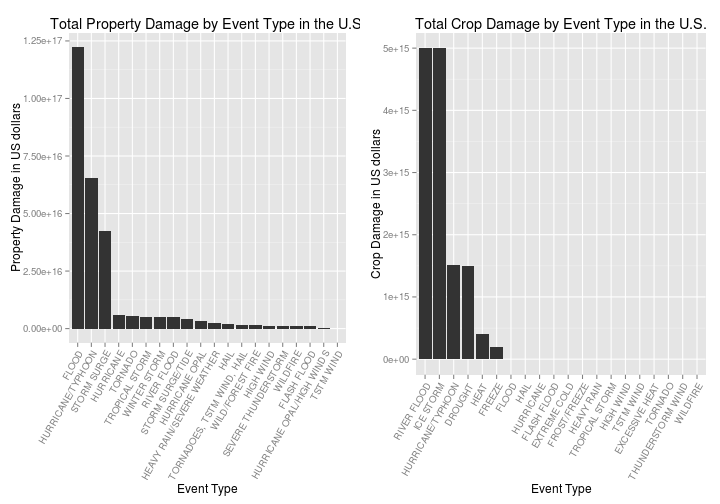
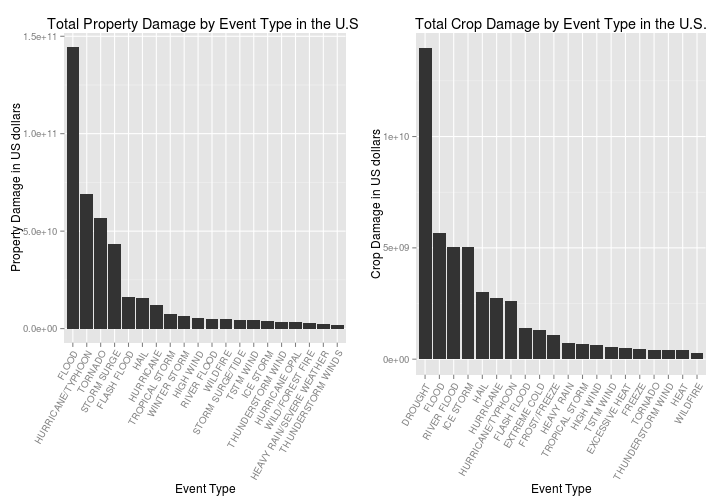
Correct the scaling.

diff --git a/index.html b/index.html
@@ -183,7 +183,7 @@ hljs.initHighlightingOnLoad();
 
 <h2>Synopsis</h2>
 
-<p>In this report, we will analyze the impact of different weather events on <em>population health</em> and its <em>economic consequences</em> with the data collected from 1950 till 2011 in the U.S. National Oceanic and Atmospheric Administration&#39;s (NOAA) storm database. To decide which type of event is most harmful to the population health, we will use the estimates of fatalities and injuries, as the histogram shows in the end, <strong>tornado</strong> causes the largest number of fatalities and injuries. For the impact on economy, the estimates of property and crop damage will be used, and the results show that <strong>flood</strong>, <strong>hurricane/typhoon</strong>, <strong>storm surge</strong>, <strong>river flood</strong> and <strong>ice storm</strong> have the greatest economic consequences.</p>
+<p>In this report, we will analyze the impact of different weather events on <em>population health</em> and its <em>economic consequences</em> with the data collected from 1950 till 2011 in the U.S. National Oceanic and Atmospheric Administration&#39;s (NOAA) storm database. To decide which type of event is most harmful to the population health, we will use the estimates of fatalities and injuries, as the histogram shows in the end, <strong>tornado</strong> causes the largest number of fatalities and injuries. For the impact on economy, the estimates of property and crop damage will be used, and the results show that <strong>flood</strong> and <strong>drought</strong> have the greatest economic consequences.</p>
 
 <h2>Introduction</h2>
 
@@ -274,7 +274,7 @@ injuries &lt;- within(injuries, EVTYPE &lt;- factor(x = EVTYPE, levels = injurie
 
 <h3>Economic Consequences</h3>
 
-<p>We will use the <strong>property damage</strong> and <strong>crop damage</strong> to estimate the impact of different types of weather events on economy. The selection strategy is the same as the previous section. As explained in the section 2.7 of <a href="https://d396qusza40orc.cloudfront.net/repdata%2Fpeer2_doc%2Fpd01016005curr.pdf">Storm Data Documentation</a>, we will need to restore the data from the orginal data file with the information in <code>PROPDMGEXP</code> and <code>CROPDMGEXP</code> and we will clean the data with other symboles in the same section.</p>
+<p>We will use the <strong>property damage</strong> and <strong>crop damage</strong> to estimate the impact of different types of weather events on economy. As explained in the section 2.7 of <a href="https://d396qusza40orc.cloudfront.net/repdata%2Fpeer2_doc%2Fpd01016005curr.pdf">Storm Data Documentation</a>, we will need to restore the data from the orginal data file with the information in <code>PROPDMGEXP</code> and <code>CROPDMGEXP</code> and we will keep the data with other symboles without scaling.</p>
 
 <ul>
 <li>K or k for thousands </li>
@@ -284,18 +284,16 @@ injuries &lt;- within(injuries, EVTYPE &lt;- factor(x = EVTYPE, levels = injurie
 
 <pre><code class="r">valid &lt;- c(&quot;&quot;, &quot;K&quot;, &quot;k&quot;, &quot;M&quot;, &quot;m&quot;, &quot;B&quot;, &quot;b&quot;)
 
-# If the -EXP is not in the valid set, set the corresponding value to zero
-storm$PROPDMG[!is.element(storm$PROPDMGEXP, valid)] &lt;- 0
-storm$CROPDMG[!is.element(storm$CROPDMGEXP, valid)] &lt;- 0
-
 for (i in 1:3) {
     coef &lt;- 10^(i * 3)
-    storm$PROPDMG[is.element(storm$PROPDMGEXP, valid[i * 2:(i * 2 + 1)])] &lt;- storm$PROPDMG[is.element(storm$PROPDMGEXP, 
-        valid[i * 2:(i * 2 + 1)])] * coef
-    storm$CROPDMG[is.element(storm$CROPDMGEXP, valid[i * 2:(i * 2 + 1)])] &lt;- storm$CROPDMG[is.element(storm$CROPDMGEXP, 
-        valid[i * 2:(i * 2 + 1)])] * coef
+    storm$PROPDMG[is.element(storm$PROPDMGEXP, valid[(i * 2):(i * 2 + 1)])] &lt;- storm$PROPDMG[is.element(storm$PROPDMGEXP, 
+        valid[(i * 2):(i * 2 + 1)])] * coef
+    storm$CROPDMG[is.element(storm$CROPDMGEXP, valid[(i * 2):(i * 2 + 1)])] &lt;- storm$CROPDMG[is.element(storm$CROPDMGEXP, 
+        valid[(i * 2):(i * 2 + 1)])] * coef
 }
 </code></pre>
+
+<p>The selection strategy is the same as the previous section.</p>
 
 <pre><code class="r">property &lt;- aggregate(x = storm$PROPDMG, by = list(storm$EVTYPE), FUN = sum)
 names(property) &lt;- c(&quot;EVTYPE&quot;, &quot;PROPDMG&quot;)
@@ -385,52 +383,52 @@ grid.arrange(plot1, plot2, ncol = 2)
 <pre><code class="r">property
 </code></pre>
 
-<pre><code>##                        EVTYPE   PROPDMG
-## 1                       FLOOD 1.225e+17
-## 2           HURRICANE/TYPHOON 6.550e+16
-## 3                 STORM SURGE 4.256e+16
-## 4                   HURRICANE 5.700e+15
-## 5                     TORNADO 5.300e+15
-## 6              TROPICAL STORM 5.150e+15
-## 7                WINTER STORM 5.000e+15
-## 8                 RIVER FLOOD 5.000e+15
-## 9            STORM SURGE/TIDE 4.000e+15
-## 10             HURRICANE OPAL 3.100e+15
-## 11  HEAVY RAIN/SEVERE WEATHER 2.500e+15
-## 12                       HAIL 1.800e+15
-## 13 TORNADOES, TSTM WIND, HAIL 1.600e+15
-## 14           WILD/FOREST FIRE 1.500e+15
-## 15                  HIGH WIND 1.300e+15
-## 16        SEVERE THUNDERSTORM 1.200e+15
-## 17                   WILDFIRE 1.040e+15
-## 18                FLASH FLOOD 1.000e+15
-## 19  HURRICANE OPAL/HIGH WINDS 1.000e+14
-## 20                  TSTM WIND 4.485e+09
+<pre><code>##                       EVTYPE   PROPDMG
+## 1                      FLOOD 1.447e+11
+## 2          HURRICANE/TYPHOON 6.931e+10
+## 3                    TORNADO 5.694e+10
+## 4                STORM SURGE 4.332e+10
+## 5                FLASH FLOOD 1.614e+10
+## 6                       HAIL 1.573e+10
+## 7                  HURRICANE 1.187e+10
+## 8             TROPICAL STORM 7.704e+09
+## 9               WINTER STORM 6.688e+09
+## 10                 HIGH WIND 5.270e+09
+## 11               RIVER FLOOD 5.119e+09
+## 12                  WILDFIRE 4.765e+09
+## 13          STORM SURGE/TIDE 4.641e+09
+## 14                 TSTM WIND 4.485e+09
+## 15                 ICE STORM 3.945e+09
+## 16         THUNDERSTORM WIND 3.483e+09
+## 17            HURRICANE OPAL 3.173e+09
+## 18          WILD/FOREST FIRE 3.002e+09
+## 19 HEAVY RAIN/SEVERE WEATHER 2.500e+09
+## 20        THUNDERSTORM WINDS 1.736e+09
 </code></pre>
 
 <pre><code class="r">crop
 </code></pre>
 
 <pre><code>##               EVTYPE   CROPDMG
-## 1        RIVER FLOOD 5.000e+15
-## 2          ICE STORM 5.000e+15
-## 3  HURRICANE/TYPHOON 1.510e+15
-## 4            DROUGHT 1.500e+15
-## 5               HEAT 4.000e+14
-## 6             FREEZE 2.000e+14
-## 7              FLOOD 5.662e+09
-## 8               HAIL 3.026e+09
-## 9          HURRICANE 2.742e+09
-## 10       FLASH FLOOD 1.421e+09
-## 11      EXTREME COLD 1.293e+09
-## 12      FROST/FREEZE 1.094e+09
-## 13        HEAVY RAIN 7.334e+08
-## 14    TROPICAL STORM 6.783e+08
-## 15         HIGH WIND 6.386e+08
-## 16         TSTM WIND 5.540e+08
-## 17    EXCESSIVE HEAT 4.924e+08
-## 18           TORNADO 4.150e+08
-## 19 THUNDERSTORM WIND 4.148e+08
+## 1            DROUGHT 1.397e+10
+## 2              FLOOD 5.662e+09
+## 3        RIVER FLOOD 5.029e+09
+## 4          ICE STORM 5.022e+09
+## 5               HAIL 3.026e+09
+## 6          HURRICANE 2.742e+09
+## 7  HURRICANE/TYPHOON 2.608e+09
+## 8        FLASH FLOOD 1.421e+09
+## 9       EXTREME COLD 1.293e+09
+## 10      FROST/FREEZE 1.094e+09
+## 11        HEAVY RAIN 7.334e+08
+## 12    TROPICAL STORM 6.783e+08
+## 13         HIGH WIND 6.386e+08
+## 14         TSTM WIND 5.540e+08
+## 15    EXCESSIVE HEAT 4.924e+08
+## 16            FREEZE 4.462e+08
+## 17           TORNADO 4.150e+08
+## 18 THUNDERSTORM WIND 4.148e+08
+## 19              HEAT 4.015e+08
 ## 20          WILDFIRE 2.955e+08
 </code></pre>
 
@@ -444,9 +442,9 @@ plot4 &lt;- qplot(EVTYPE, data = crop, weight = CROPDMG, geom = &quot;bar&quot;,
 grid.arrange(plot3, plot4, ncol = 2)
 </code></pre>
 
[2 lines of base64/hex data omitted]
 
-<p>As shown in the histogram, <strong>flood</strong>, <strong>hurricane/typhoon</strong> and <strong>storm surge</strong> have the greatest property damage among all types of weather event, and <strong>river flood</strong> and <strong>ice storm</strong> have the most serious impact on crop damage. Overall, <strong>flood</strong>, <strong>hurricane/typhoon</strong>, <strong>storm surge</strong>, <strong>river flood</strong> and <strong>ice storm</strong> have the greatest economic consequences. </p>
+<p>As shown in the histogram, <strong>flood</strong> has the greatest property damage among all types of weather event, and <strong>drought</strong> has the most serious impact on crop damage. Overall, <strong>flood</strong> and <strong>drought</strong> have the greatest economic consequences. </p>
 
 </body>
 

diff --git a/index.md b/index.md
@@ -2,7 +2,7 @@ Impact of Severe Weather Events on Population Health and Economy in the U.S.
 ===============================================================================
 
 ## Synopsis
-In this report, we will analyze the impact of different weather events on *population health* and its *economic consequences* with the data collected from 1950 till 2011 in the U.S. National Oceanic and Atmospheric Administration's (NOAA) storm database. To decide which type of event is most harmful to the population health, we will use the estimates of fatalities and injuries, as the histogram shows in the end, **tornado** causes the largest number of fatalities and injuries. For the impact on economy, the estimates of property and crop damage will be used, and the results show that **flood**, **hurricane/typhoon**, **storm surge**, **river flood** and **ice storm** have the greatest economic consequences.
+In this report, we will analyze the impact of different weather events on *population health* and its *economic consequences* with the data collected from 1950 till 2011 in the U.S. National Oceanic and Atmospheric Administration's (NOAA) storm database. To decide which type of event is most harmful to the population health, we will use the estimates of fatalities and injuries, as the histogram shows in the end, **tornado** causes the largest number of fatalities and injuries. For the impact on economy, the estimates of property and crop damage will be used, and the results show that **flood** and **drought** have the greatest economic consequences.
 
 ## Introduction
 
@@ -100,7 +100,7 @@ injuries <- within(injuries, EVTYPE <- factor(x = EVTYPE, levels = injuries$EVTY
 
 ### Economic Consequences
 
-We will use the **property damage** and **crop damage** to estimate the impact of different types of weather events on economy. The selection strategy is the same as the previous section. As explained in the section 2.7 of [Storm Data Documentation](https://d396qusza40orc.cloudfront.net/repdata%2Fpeer2_doc%2Fpd01016005curr.pdf), we will need to restore the data from the orginal data file with the information in `PROPDMGEXP` and `CROPDMGEXP` and we will clean the data with other symboles in the same section.
+We will use the **property damage** and **crop damage** to estimate the impact of different types of weather events on economy. As explained in the section 2.7 of [Storm Data Documentation](https://d396qusza40orc.cloudfront.net/repdata%2Fpeer2_doc%2Fpd01016005curr.pdf), we will need to restore the data from the orginal data file with the information in `PROPDMGEXP` and `CROPDMGEXP` and we will keep the data with other symboles without scaling.
 * K or k for thousands 
 * M or m for millions
 * B or b for billions
@@ -109,20 +109,16 @@ We will use the **property damage** and **crop damage** to estimate the impact o
 ```r
 valid <- c("", "K", "k", "M", "m", "B", "b")
 
-# If the -EXP is not in the valid set, set the corresponding value to zero
-storm$PROPDMG[!is.element(storm$PROPDMGEXP, valid)] <- 0
-storm$CROPDMG[!is.element(storm$CROPDMGEXP, valid)] <- 0
-
 for (i in 1:3) {
     coef <- 10^(i * 3)
-    storm$PROPDMG[is.element(storm$PROPDMGEXP, valid[i * 2:(i * 2 + 1)])] <- storm$PROPDMG[is.element(storm$PROPDMGEXP, 
-        valid[i * 2:(i * 2 + 1)])] * coef
-    storm$CROPDMG[is.element(storm$CROPDMGEXP, valid[i * 2:(i * 2 + 1)])] <- storm$CROPDMG[is.element(storm$CROPDMGEXP, 
-        valid[i * 2:(i * 2 + 1)])] * coef
+    storm$PROPDMG[is.element(storm$PROPDMGEXP, valid[(i * 2):(i * 2 + 1)])] <- storm$PROPDMG[is.element(storm$PROPDMGEXP, 
+        valid[(i * 2):(i * 2 + 1)])] * coef
+    storm$CROPDMG[is.element(storm$CROPDMGEXP, valid[(i * 2):(i * 2 + 1)])] <- storm$CROPDMG[is.element(storm$CROPDMGEXP, 
+        valid[(i * 2):(i * 2 + 1)])] * coef
 }
 ```
 
-
+The selection strategy is the same as the previous section.
 
 ```r
 property <- aggregate(x = storm$PROPDMG, by = list(storm$EVTYPE), FUN = sum)
@@ -222,27 +218,27 @@ property
 ```
 
 ```
-##                        EVTYPE   PROPDMG
-## 1                       FLOOD 1.225e+17
-## 2           HURRICANE/TYPHOON 6.550e+16
-## 3                 STORM SURGE 4.256e+16
-## 4                   HURRICANE 5.700e+15
-## 5                     TORNADO 5.300e+15
-## 6              TROPICAL STORM 5.150e+15
-## 7                WINTER STORM 5.000e+15
-## 8                 RIVER FLOOD 5.000e+15
-## 9            STORM SURGE/TIDE 4.000e+15
-## 10             HURRICANE OPAL 3.100e+15
-## 11  HEAVY RAIN/SEVERE WEATHER 2.500e+15
-## 12                       HAIL 1.800e+15
-## 13 TORNADOES, TSTM WIND, HAIL 1.600e+15
-## 14           WILD/FOREST FIRE 1.500e+15
-## 15                  HIGH WIND 1.300e+15
-## 16        SEVERE THUNDERSTORM 1.200e+15
-## 17                   WILDFIRE 1.040e+15
-## 18                FLASH FLOOD 1.000e+15
-## 19  HURRICANE OPAL/HIGH WINDS 1.000e+14
-## 20                  TSTM WIND 4.485e+09
+##                       EVTYPE   PROPDMG
+## 1                      FLOOD 1.447e+11
+## 2          HURRICANE/TYPHOON 6.931e+10
+## 3                    TORNADO 5.694e+10
+## 4                STORM SURGE 4.332e+10
+## 5                FLASH FLOOD 1.614e+10
+## 6                       HAIL 1.573e+10
+## 7                  HURRICANE 1.187e+10
+## 8             TROPICAL STORM 7.704e+09
+## 9               WINTER STORM 6.688e+09
+## 10                 HIGH WIND 5.270e+09
+## 11               RIVER FLOOD 5.119e+09
+## 12                  WILDFIRE 4.765e+09
+## 13          STORM SURGE/TIDE 4.641e+09
+## 14                 TSTM WIND 4.485e+09
+## 15                 ICE STORM 3.945e+09
+## 16         THUNDERSTORM WIND 3.483e+09
+## 17            HURRICANE OPAL 3.173e+09
+## 18          WILD/FOREST FIRE 3.002e+09
+## 19 HEAVY RAIN/SEVERE WEATHER 2.500e+09
+## 20        THUNDERSTORM WINDS 1.736e+09
 ```
 
 ```r
@@ -251,25 +247,25 @@ crop
 
 ```
 ##               EVTYPE   CROPDMG
-## 1        RIVER FLOOD 5.000e+15
-## 2          ICE STORM 5.000e+15
-## 3  HURRICANE/TYPHOON 1.510e+15
-## 4            DROUGHT 1.500e+15
-## 5               HEAT 4.000e+14
-## 6             FREEZE 2.000e+14
-## 7              FLOOD 5.662e+09
-## 8               HAIL 3.026e+09
-## 9          HURRICANE 2.742e+09
-## 10       FLASH FLOOD 1.421e+09
-## 11      EXTREME COLD 1.293e+09
-## 12      FROST/FREEZE 1.094e+09
-## 13        HEAVY RAIN 7.334e+08
-## 14    TROPICAL STORM 6.783e+08
-## 15         HIGH WIND 6.386e+08
-## 16         TSTM WIND 5.540e+08
-## 17    EXCESSIVE HEAT 4.924e+08
-## 18           TORNADO 4.150e+08
-## 19 THUNDERSTORM WIND 4.148e+08
+## 1            DROUGHT 1.397e+10
+## 2              FLOOD 5.662e+09
+## 3        RIVER FLOOD 5.029e+09
+## 4          ICE STORM 5.022e+09
+## 5               HAIL 3.026e+09
+## 6          HURRICANE 2.742e+09
+## 7  HURRICANE/TYPHOON 2.608e+09
+## 8        FLASH FLOOD 1.421e+09
+## 9       EXTREME COLD 1.293e+09
+## 10      FROST/FREEZE 1.094e+09
+## 11        HEAVY RAIN 7.334e+08
+## 12    TROPICAL STORM 6.783e+08
+## 13         HIGH WIND 6.386e+08
+## 14         TSTM WIND 5.540e+08
+## 15    EXCESSIVE HEAT 4.924e+08
+## 16            FREEZE 4.462e+08
+## 17           TORNADO 4.150e+08
+## 18 THUNDERSTORM WIND 4.148e+08
+## 19              HEAT 4.015e+08
 ## 20          WILDFIRE 2.955e+08
 ```
 
@@ -288,7 +284,7 @@ grid.arrange(plot3, plot4, ncol = 2)
 
 ![plot of chunk unnamed-chunk-9](figure/unnamed-chunk-9.png) 
 
-As shown in the histogram, **flood**, **hurricane/typhoon** and **storm surge** have the greatest property damage among all types of weather event, and **river flood** and **ice storm** have the most serious impact on crop damage. Overall, **flood**, **hurricane/typhoon**, **storm surge**, **river flood** and **ice storm** have the greatest economic consequences. 
+As shown in the histogram, **flood** has the greatest property damage among all types of weather event, and **drought** has the most serious impact on crop damage. Overall, **flood** and **drought** have the greatest economic consequences. 
 
 
 
